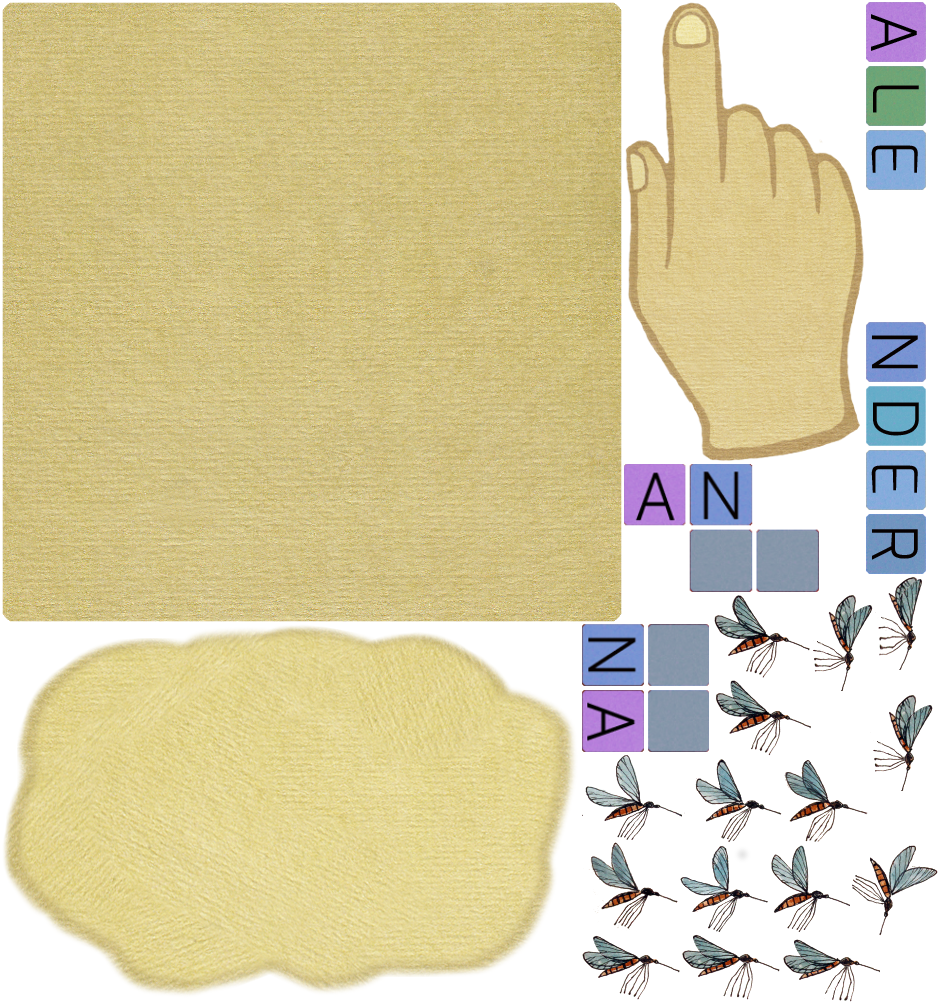
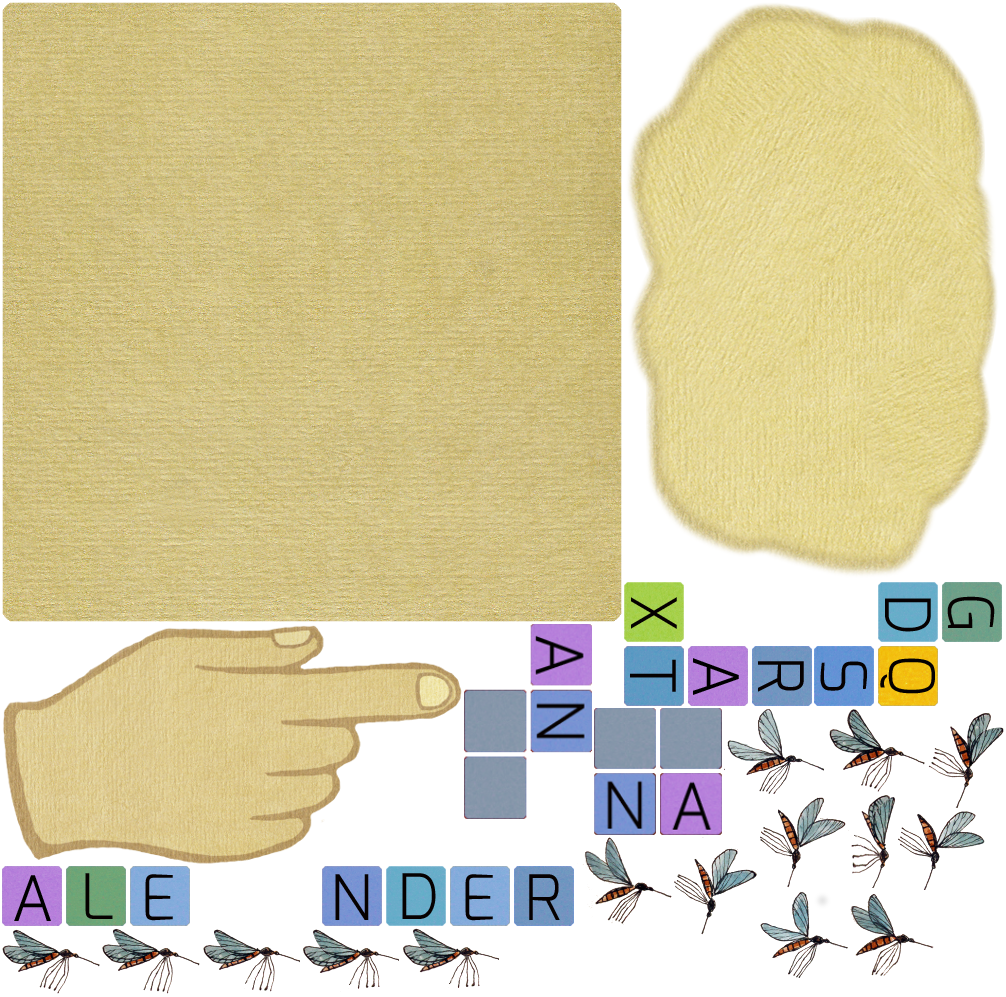
Volume menu for Title

diff --git a/src/app.js b/src/app.js
@@ -91,6 +91,9 @@ var _42_GLOBALS = {
     TILE_5_6_MAX_ROW : 11,
     MUSIC_VOLUME: 0.4,
     EFFECTS_VOLUME: 0.8,
+    SETTINGS_HIDDEN: 0,
+    SETTINGS_MOVING: 1,
+    SETTINGS_SHOWN: 2
 };
 var $42 = _42_GLOBALS;
 $42.webCallbacks = [];
@@ -1549,6 +1552,9 @@ var _42TitleLayer = cc.Layer.extend({
         titleBg.setScale(1.1);
         _42_retain(this._titleBg,"Title background");
 
+        this.storyBackground = new cc.Sprite(cc.spriteFrameCache.getSpriteFrame("story_background.png"));
+        _42_retain(this.storyBackground, "Storybackground of title layer");
+
         // Show menu items
 		var addMenu = function(name, fontSize, color, cb) {
 	        var item = new cc.MenuItemFont(name, cb, self);
@@ -1628,6 +1634,7 @@ var _42TitleLayer = cc.Layer.extend({
         $42.menuItemTweet = item4;
         _42_retain(item4, "Menu Item Tweet");
 
+        this.initListeners();
         this.show();
 
         return true;
@@ -1752,6 +1759,136 @@ var _42TitleLayer = cc.Layer.extend({
 		for( var i=0 ; i<nodes.length ; i++ ) {
 			if( nodes[i] ) _42_release(nodes[i]);
 		}    
+    },
+
+    initListeners: function() {
+        var self = this;
+
+        this._keyboardListener = cc.EventListener.create({
+            event: cc.EventListener.KEYBOARD,
+            onKeyPressed:function(key, event) {
+                // check for BACK key (ESC on web)
+                switch( key ) {
+                case 27:
+                case 8: // or 6
+                    if( !self._settingsShown ) {
+                        self._settingsShown = $42.SETTINGS_MOVING;
+                        self.showSettings(function() {
+                            self._settingsShown = $42.SETTINGS_SHOWN;
+                        });
+                    } else if( self._settingsShown === $42.SETTINGS_SHOWN ) {
+                        self._settingsShown = $42.SETTINGS_MOVING;
+                        self.hideSettings(function() {
+                            self._settingsShown = $42.SETTINGS_HIDDEN;
+                        });
+                    }
+                    break; 
+                case 18:
+                    //self.showExitMenu();
+                    break;
+                default:
+                    cc.log(key);
+                } 
+            }
+        });
+
+	    cc.eventManager.addListener(this._keyboardListener, this);
+    },
+
+    initMenuListeners: function(sender, type) {
+        var self = this;
+        switch (type) {
+            case ccui.Slider.EVENT_PERCENT_CHANGED:
+                var slider = sender,
+                    percent = slider.getPercent();
+                    
+                if( slider.isMusicSlider ) {
+                    cc.audioEngine.setMusicVolume(percent/100);
+                } else {
+                    cc.audioEngine.setEffectsVolume(percent/100);
+                }
+                break;
+            default:
+                break;
+        }
+    },
+
+    showSettings: function(cb) {
+        
+        sb = this.storyBackground;
+
+        this.addChild(sb);
+        sb.setPosition(cc.p(cc.width,cc.height));
+        sb.setOpacity($42.STORY_BACKGROUND_OPACITY);
+        sb.setScale(0);
+        sb.runAction(
+            cc.sequence(
+                cc.EaseQuinticActionOut.create(
+                    cc.spawn(
+                        cc.scaleTo($42.STORY_BACKGROUND_SPEED, 1),
+                        cc.moveTo($42.STORY_BACKGROUND_SPEED, $42.STORY_BACKGROUND_POS)
+                    )
+                ),
+                cc.callFunc(function() {
+                    cb();
+                })
+            )
+        );
+
+        if( sb.children.length < 4 ) {
+            var s = sb.getContentSize();
+
+            var label = new cc.LabelTTF( $42.t.music_slider , _42_getFontName(res.exo_regular_ttf), 72);
+            label.setPosition(cc.p(s.width/2,480));
+            sb.addChild(label);
+            
+            var sl = new ccui.Slider();
+            sl.setPercent($42.MUSIC_VOLUME*100);
+            sl.setTouchEnabled(true);
+            sl.loadBarTexture("res/images/ui/slider_pressbar.png");
+            sl.loadSlidBallTextures("res/images/ui/slider_node_normal.png", "res/images/ui/slider_node_pressed.png", "");
+            sl.loadProgressBarTexture("res/images/ui/slider_background.png");
+            sl.setPosition(cc.p(s.width/2, 380));
+            sl.addEventListener(this.initMenuListeners, this);
+            sl.isMusicSlider = true;
+            sb.addChild(sl);
+            
+            var label = new cc.LabelTTF( $42.t.effects_slider , _42_getFontName(res.exo_regular_ttf), 72);
+            label.setPosition(cc.p(s.width/2,250));
+            sb.addChild(label);
+            
+            var sl = this.effectsSlider = new ccui.Slider();
+            sl.setPercent($42.EFFECTS_VOLUME*100);
+            sl.setTouchEnabled(true);
+            sl.loadBarTexture("res/images/ui/slider_pressbar.png");
+            sl.loadSlidBallTextures("res/images/ui/slider_node_normal.png", "res/images/ui/slider_node_pressed.png", "");
+            sl.loadProgressBarTexture("res/images/ui/slider_background.png");
+            sl.setPosition(cc.p(s.width/2, 150));
+            sl.addEventListener(this.initMenuListeners, this);
+            sl.isMusicSlider = false;
+            sb.addChild(sl);
+        }
+    },
+ 
+    hideSettings: function(cb) {
+        
+        var self = this;
+        sb = this.storyBackground;
+
+        sb.runAction(
+            cc.EaseQuinticActionOut.create(
+                cc.sequence(
+                    cc.spawn(
+                        cc.scaleTo($42.STORY_BACKGROUND_SPEED/2, 0),
+                        cc.moveTo($42.STORY_BACKGROUND_SPEED/2,cc.p(cc.width,cc.height))
+                    ),
+                    cc.callFunc(function() {
+                        self.removeChild(sb);
+                        cb();
+                    })
+                )
+            )
+        );
     }
 });
 
